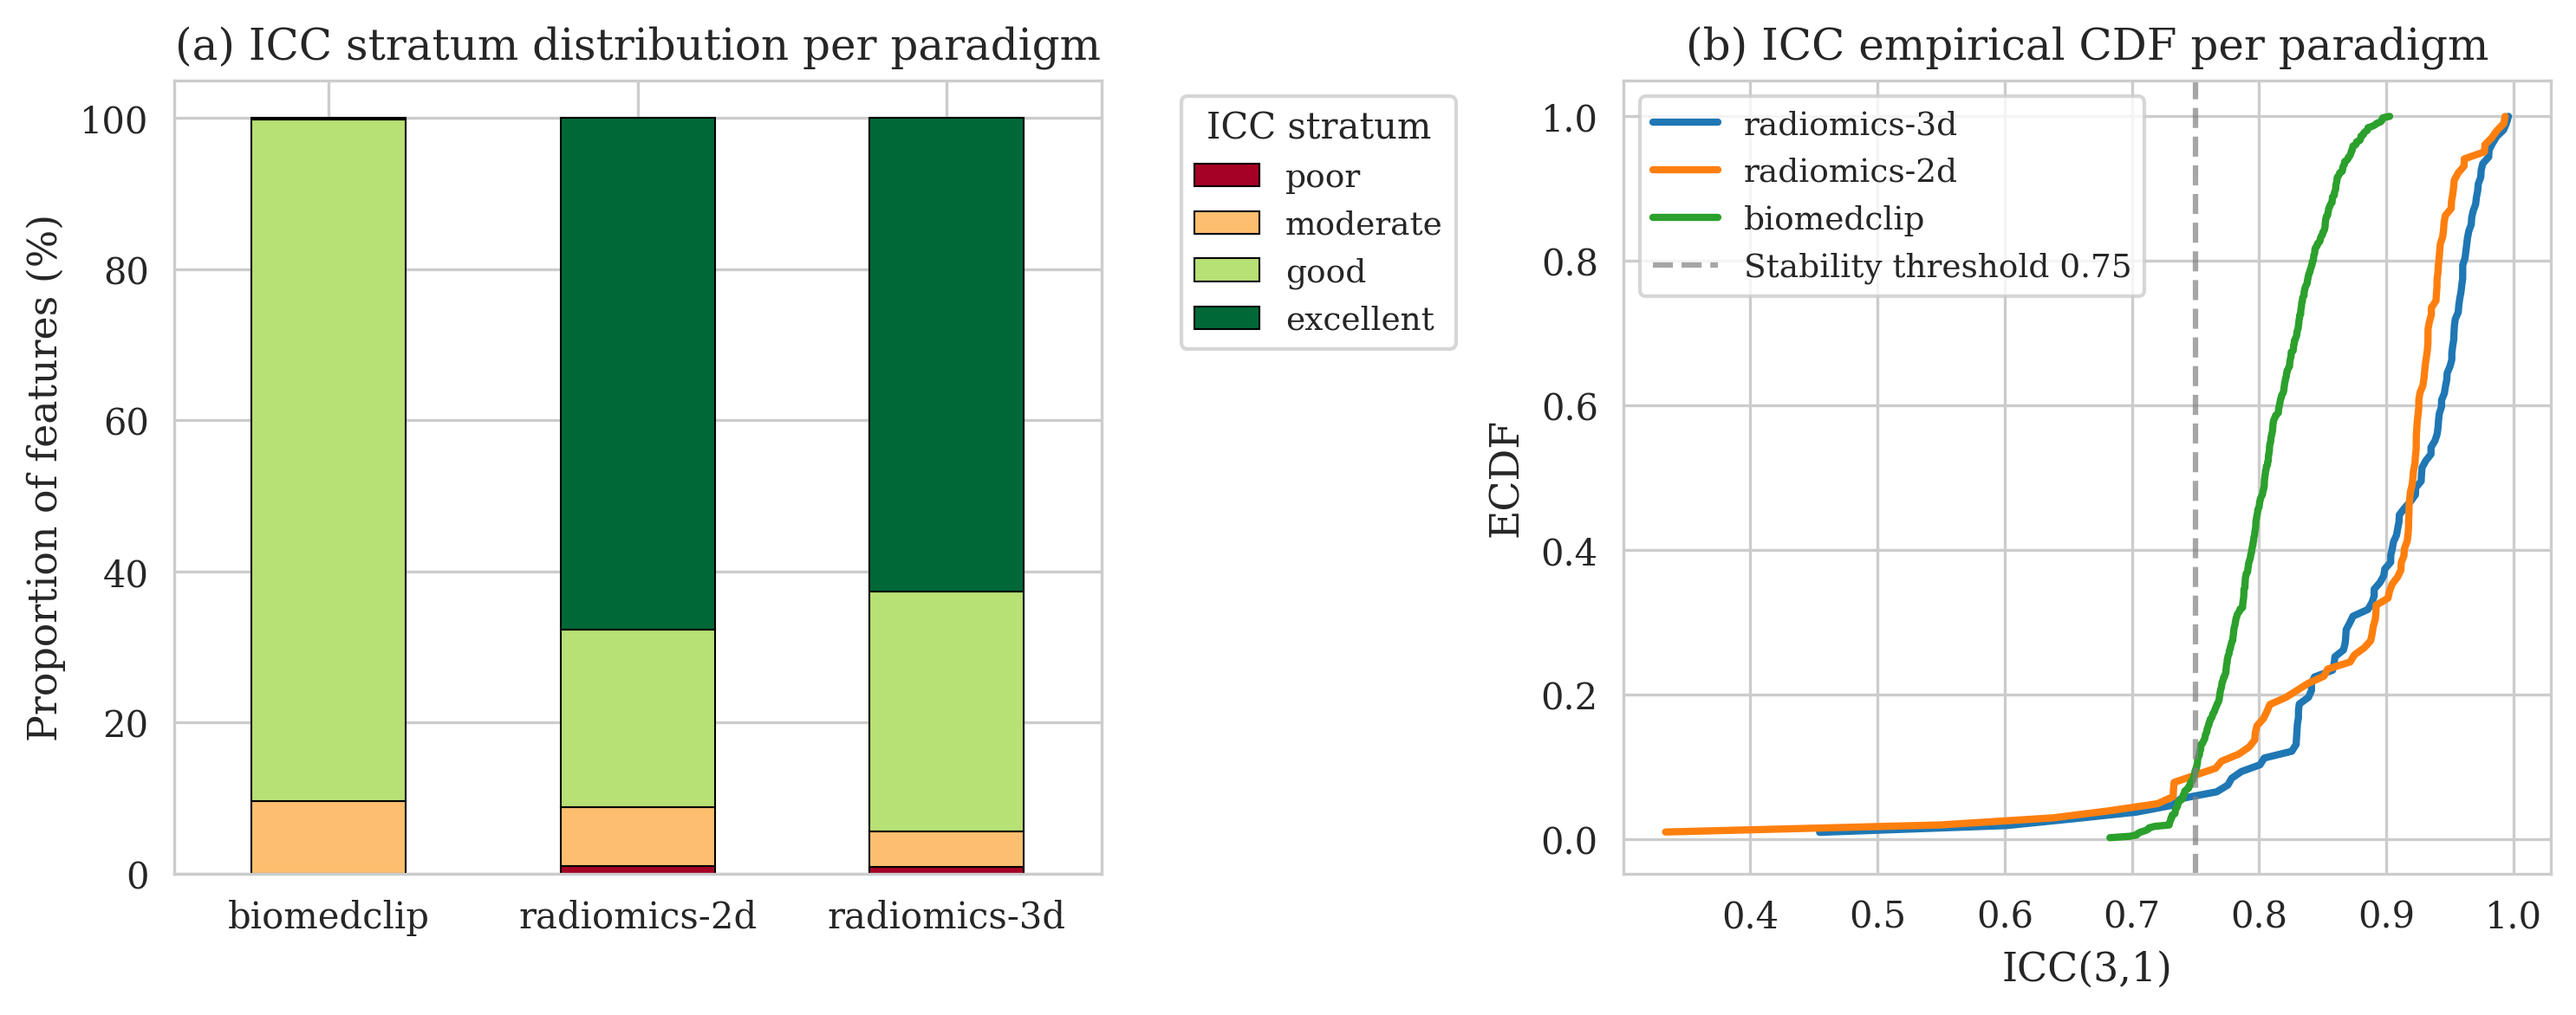
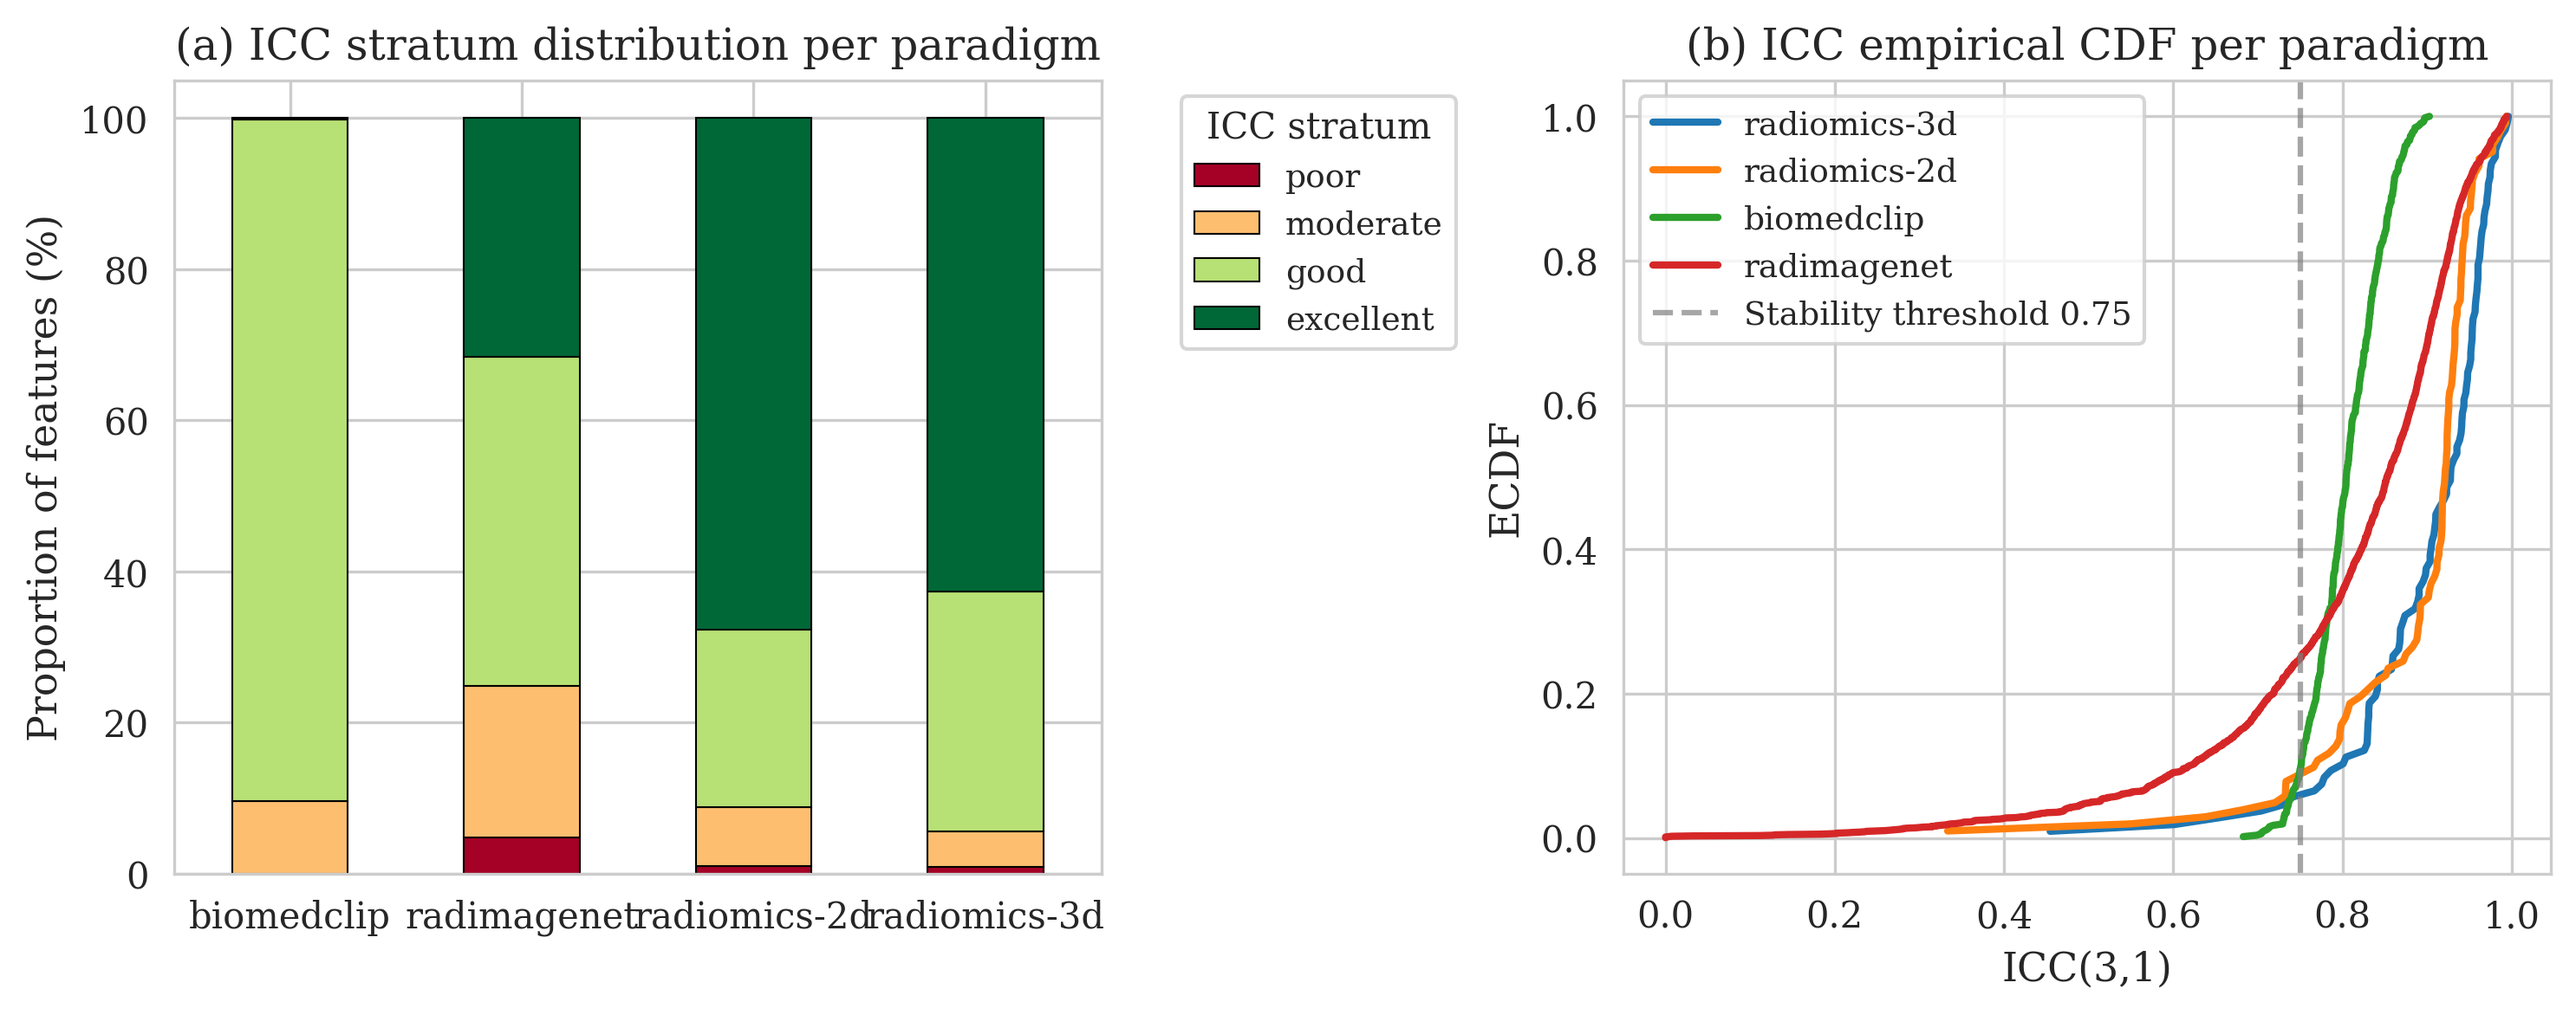
chore: complete RadImageNet propagation — script 07/07b PARADIGMS, fig2/fig3 regen, decisions.log #025

diff --git a/code/07_downstream_classifier.py b/code/07_downstream_classifier.py
@@ -98,13 +98,11 @@ def fold_internal_icc_selector(df_full: pd.DataFrame, feature_cols: list, thresh
 log = get_logger("07_classifier")
 
 
-# Paradigms evaluated downstream. Add ("radimagenet", "fm_embeddings_radimagenet.parquet")
-# back to this list once the manual RadImageNet weight download is complete and
-# `python 05_extract_fm_embeddings.py --fm radimagenet` has written the parquet.
 PARADIGMS = [
     ("radiomics-3d", "radiomics_features_3d.parquet"),
     ("radiomics-2d", "radiomics_features_2d.parquet"),
     ("biomedclip", "fm_embeddings_biomedclip.parquet"),
+    ("radimagenet", "fm_embeddings_radimagenet.parquet"),
 ]
 
 

diff --git a/code/07b_subgroup_analysis.py b/code/07b_subgroup_analysis.py
@@ -68,6 +68,7 @@ PARADIGMS = [
     ("radiomics-3d", "radiomics_features_3d.parquet"),
     ("radiomics-2d", "radiomics_features_2d.parquet"),
     ("biomedclip", "fm_embeddings_biomedclip.parquet"),
+    ("radimagenet", "fm_embeddings_radimagenet.parquet"),
 ]
 
 # Diameter strata per decisions.log #011.
